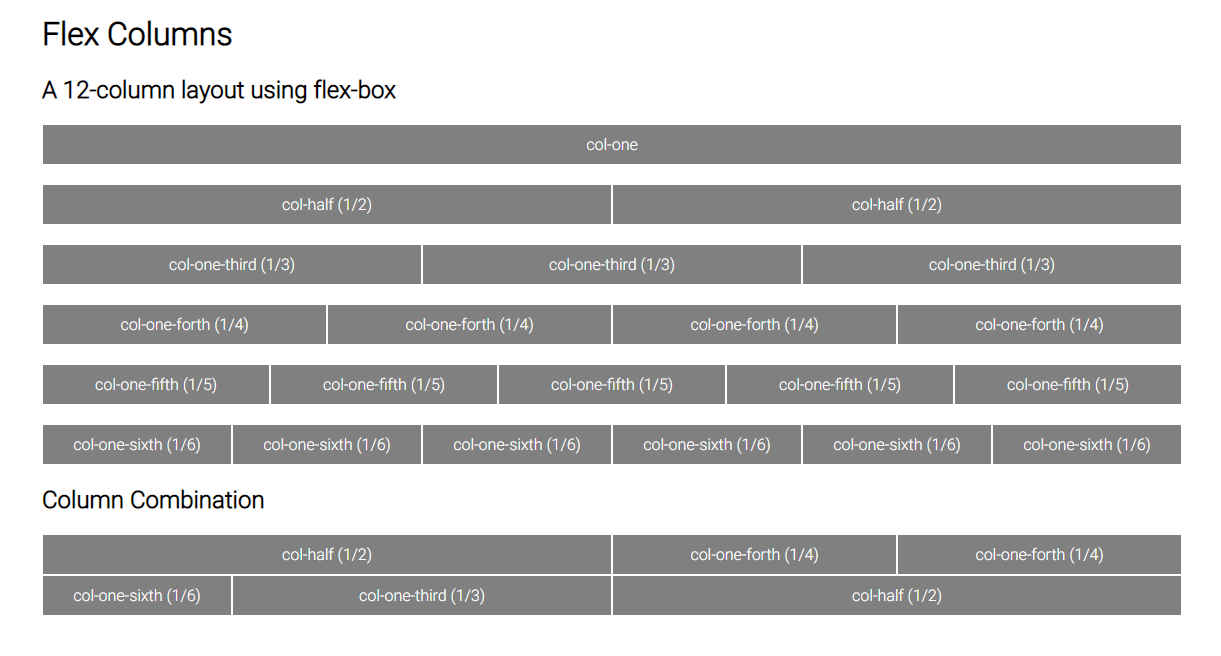
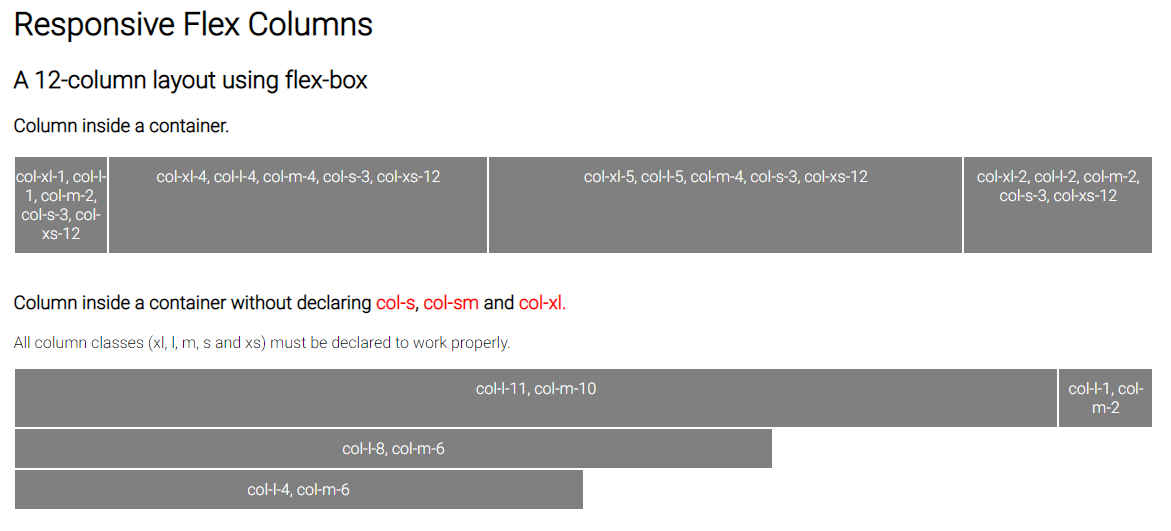
Update file

diff --git a/src/index.html b/src/index.html
@@ -81,7 +81,7 @@
         col-xl-2, col-l-2, col-m-2, col-s-3, col-xs-12</div>
     </div><br>
     <h3>Column inside a container without declaring <span style="color: red">col-s</span>, <span style="color: red">col-sm</span> and <span style="color: red">col-xl<span style="color: red"></span>.</h2>
-    <p>All column classes must be declared to work properly.</p>
+    <p>All column classes (xl, l, m, s and xs) must be declared to work properly.</p>
     <div class="row">
       <div class="col-l-11 col-m-10 col-styling">col-l-11, col-m-10</div>
       <div class="col-l-1 col-m-2 col-styling">col-l-1, col-m-2</div>

diff --git a/README.md b/README.md
@@ -1,5 +1,5 @@
 # Responsive Flex Columns
-![](https://img.shields.io/badge/version-1.0.0-green.svg)
+![](https://img.shields.io/badge/version-1.1.0-green.svg)
 
 A light weight simple column layout code using 'flex-box` to build responsive, mobile-first projects on the web.
 
